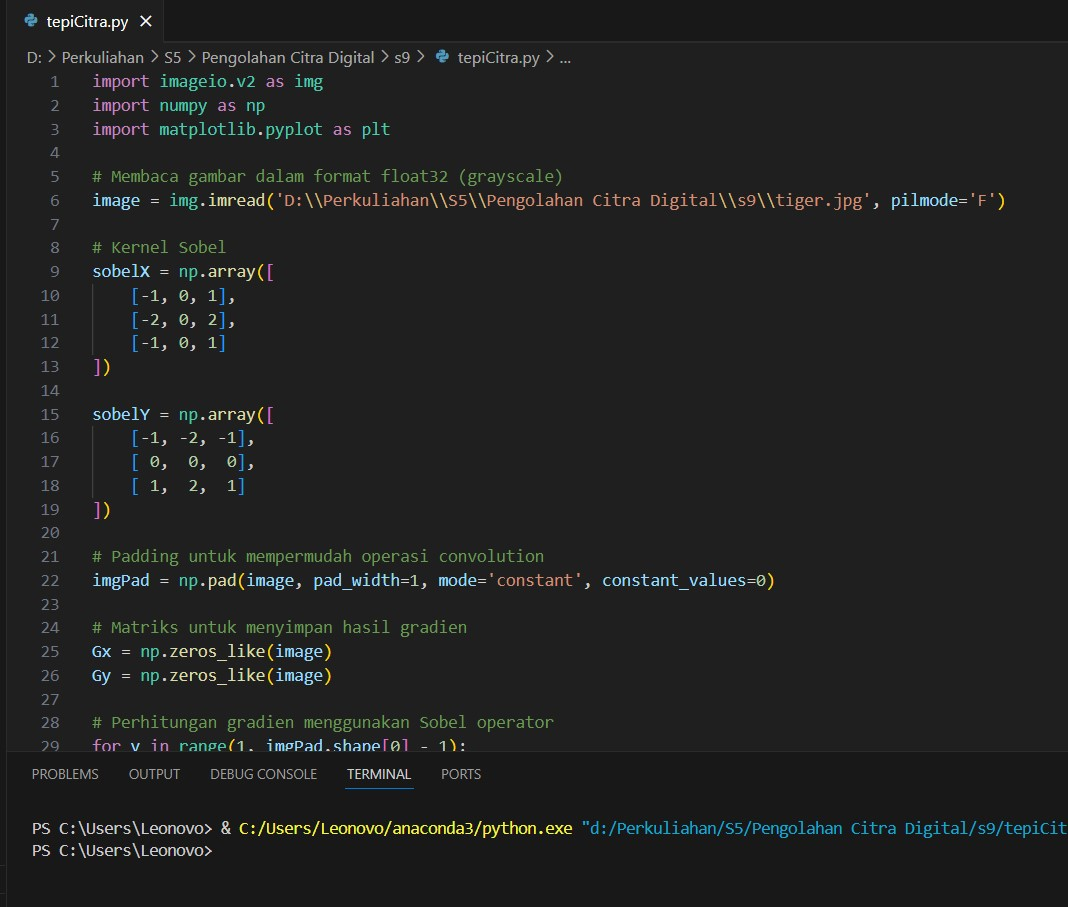
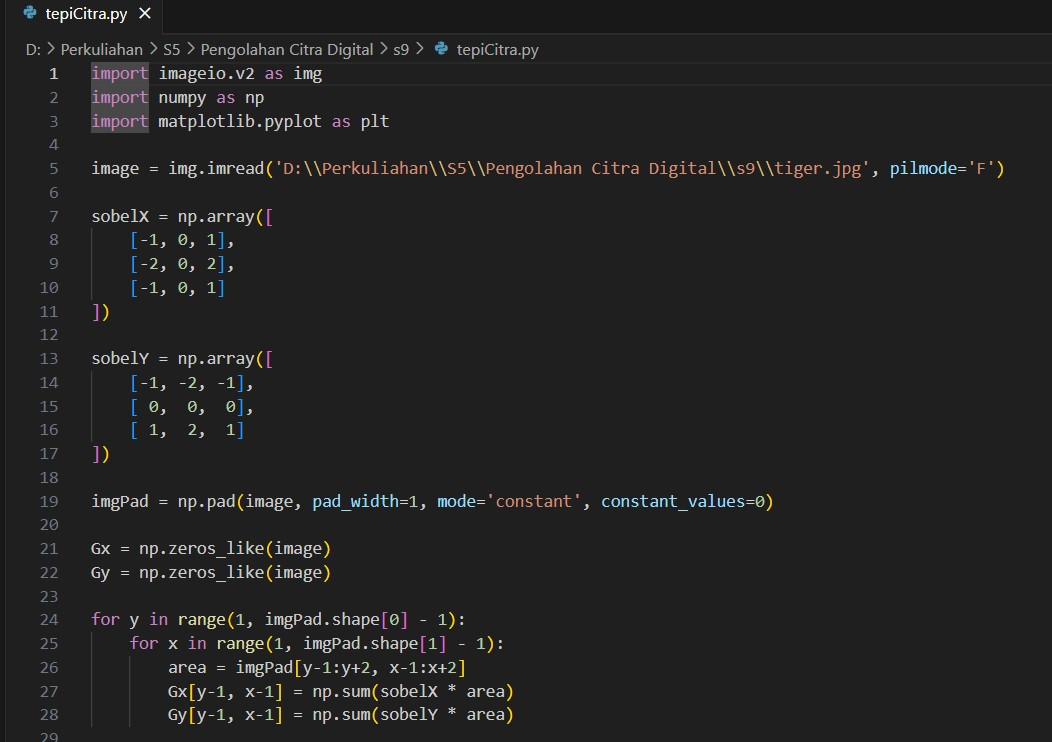
tugas s9 pcd deteksi tepi moch_cahya_G

Changed region(s): [[0.0304, 0.31, 1.0, 1.0], [0.0, 0.0, 0.9734, 0.403], [0.0304, 0.248, 0.0608, 0.279]]

diff --git a/tepiCitra.py b/tepiCitra.py
@@ -2,10 +2,8 @@ import imageio.v2 as img
 import numpy as np
 import matplotlib.pyplot as plt
 
-# Membaca gambar dalam format float32 (grayscale)
 image = img.imread('D:\\Perkuliahan\\S5\\Pengolahan Citra Digital\\s9\\tiger.jpg', pilmode='F')
 
-# Kernel Sobel
 sobelX = np.array([
     [-1, 0, 1],
     [-2, 0, 2],
@@ -18,26 +16,21 @@ sobelY = np.array([
     [ 1,  2,  1]
 ])
 
-# Padding untuk mempermudah operasi convolution
 imgPad = np.pad(image, pad_width=1, mode='constant', constant_values=0)
 
-# Matriks untuk menyimpan hasil gradien
 Gx = np.zeros_like(image)
 Gy = np.zeros_like(image)
 
-# Perhitungan gradien menggunakan Sobel operator
 for y in range(1, imgPad.shape[0] - 1):
     for x in range(1, imgPad.shape[1] - 1):
-        area = imgPad[y-1:y+2, x-1:x+2]  # Area 3x3
-        Gx[y-1, x-1] = np.sum(sobelX * area)  # Gradien X
-        Gy[y-1, x-1] = np.sum(sobelY * area)  # Gradien Y
+        area = imgPad[y-1:y+2, x-1:x+2]
+        Gx[y-1, x-1] = np.sum(sobelX * area)
+        Gy[y-1, x-1] = np.sum(sobelY * area)
 
-# Magnitude gradien
 G = np.sqrt(Gx**2 + Gy**2)
-G = (G / G.max()) * 255  # Normalisasi ke rentang 0-255
-G = np.clip(G, 0, 255).astype(np.uint8)  # Konversi ke uint8
+G = (G / G.max()) * 255
+G = np.clip(G, 0, 255).astype(np.uint8)
 
-# Menampilkan hasil
 plt.figure(figsize=(10, 10))
 
 plt.subplot(2, 2, 1)
